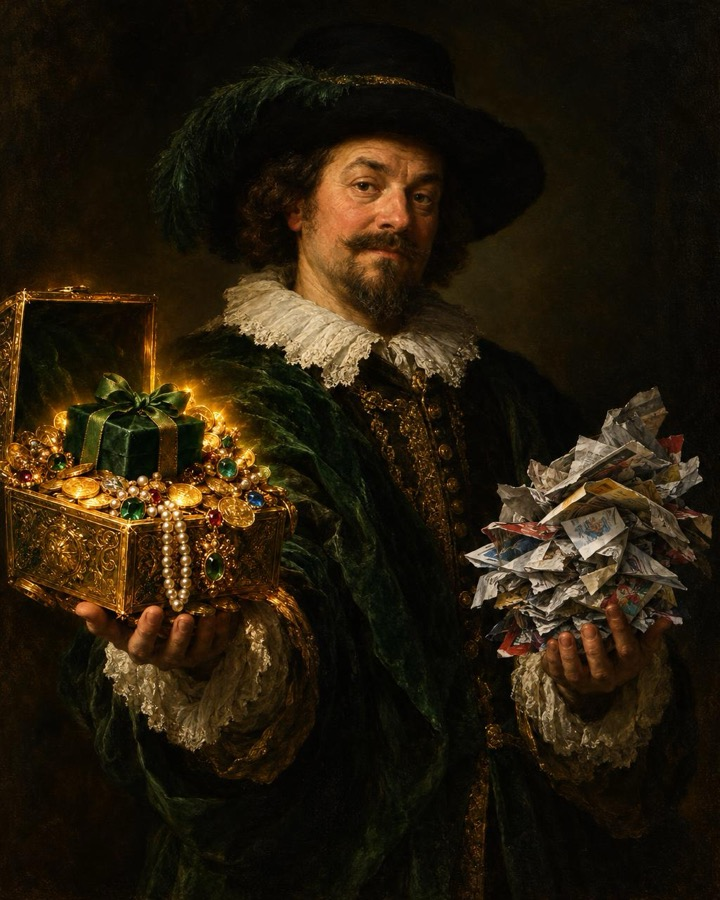
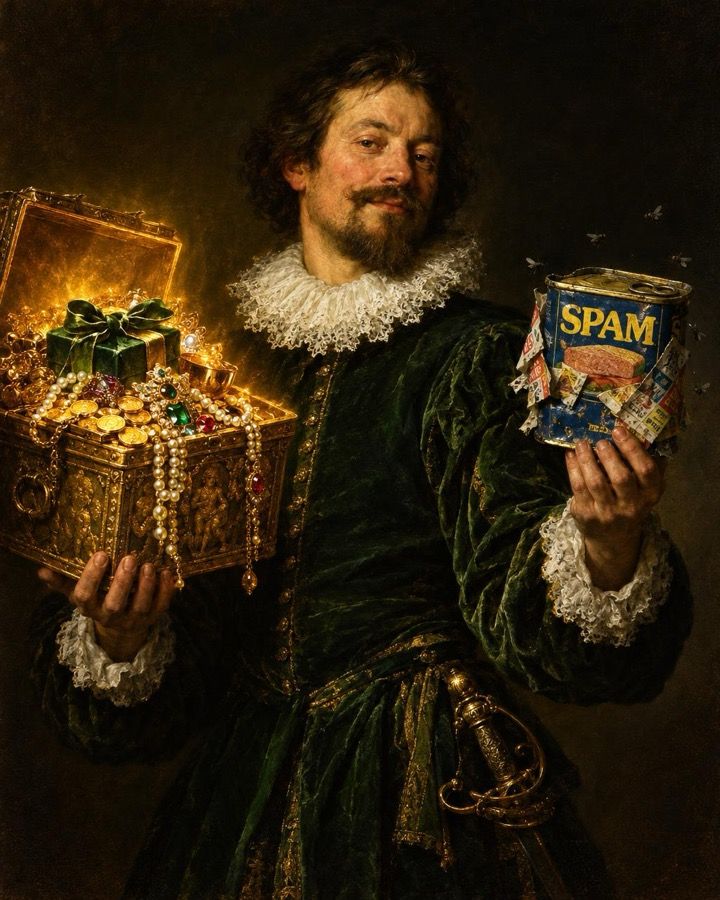
why3: obvious spam vs perks

diff --git a/x7land/index.html b/x7land/index.html
@@ -338,7 +338,7 @@ nav .links .btn{padding:10px 20px;font-size:14px;font-weight:600;background:var(
  <div class="wg">
   <div class="wc reveal"><div class="frame"><img src="a/why1.jpg" alt=""></div><span class="n">01</span><p>It's impossible for you to review all the new AI tools.</p></div>
   <div class="wc reveal" style="transition-delay:.12s"><div class="frame"><img src="a/why2.jpg" alt=""></div><span class="n">02</span><p>People know what's best for your business. We aggregate all that data.</p></div>
-  <div class="wc reveal" style="transition-delay:.24s"><div class="frame"><img src="a/why3.jpg" alt=""></div><span class="n">03</span><p>Instead of companies spending money on spamming you, we ask them for perks we can share with you instead.</p></div>
+  <div class="wc reveal" style="transition-delay:.24s"><div class="frame"><img src="a/why3.jpg?v=2" alt=""></div><span class="n">03</span><p>Instead of companies spending money on spamming you, we ask them for perks we can share with you instead.</p></div>
  </div>
 </section>
 <section class="agg" id="agg">
